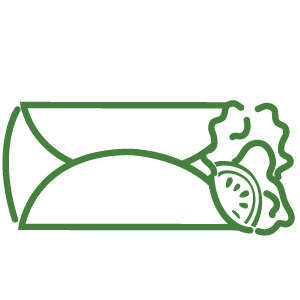
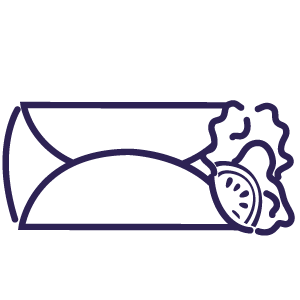
cambio de color a los iconos, letras y border radius

Changed region(s): [[0.0, 0.33, 0.99, 0.81]]

diff --git a/site/src/public/stylesheets/menu.css b/site/src/public/stylesheets/menu.css
@@ -22,7 +22,7 @@ body.menu{
 }
 .menu main section.top-menu div img{
     border-radius: 50%;
-    border: 1.5px solid #037027;
+    border: 1.5px solid #2D2254;;
     width: 80px;
     height: 80px;
     margin-left: 10px;
@@ -31,7 +31,7 @@ body.menu{
 .menu main section.top-menu div p{
     font-size: 16px;
     font-family: 'Open Sans Condensed', sans-serif;
-    color:  #037027;
+    color:  #2D2254;
     
  
     width: 100px;
